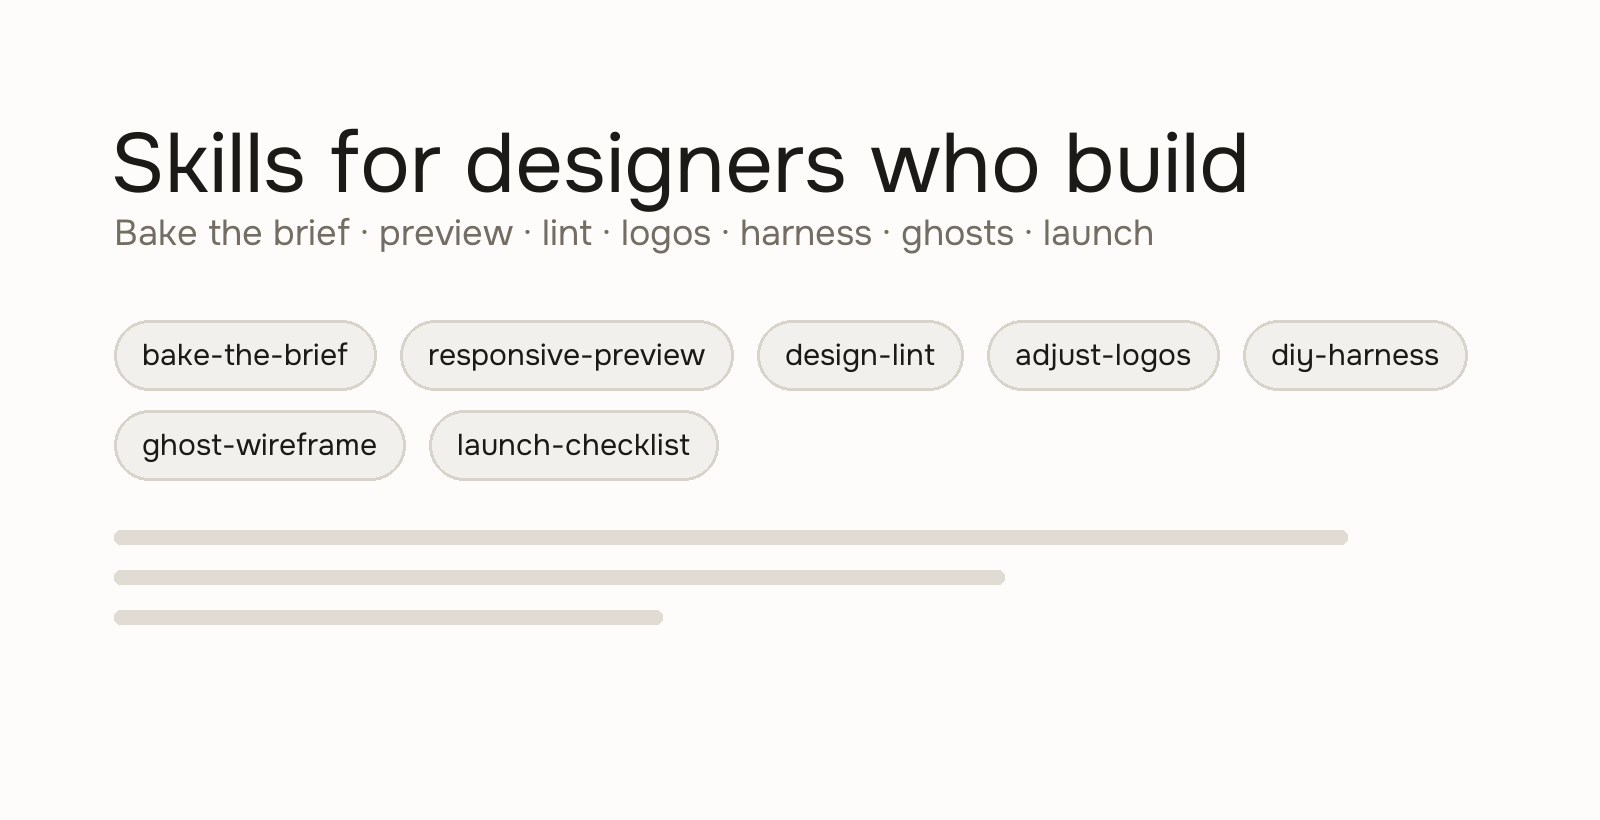
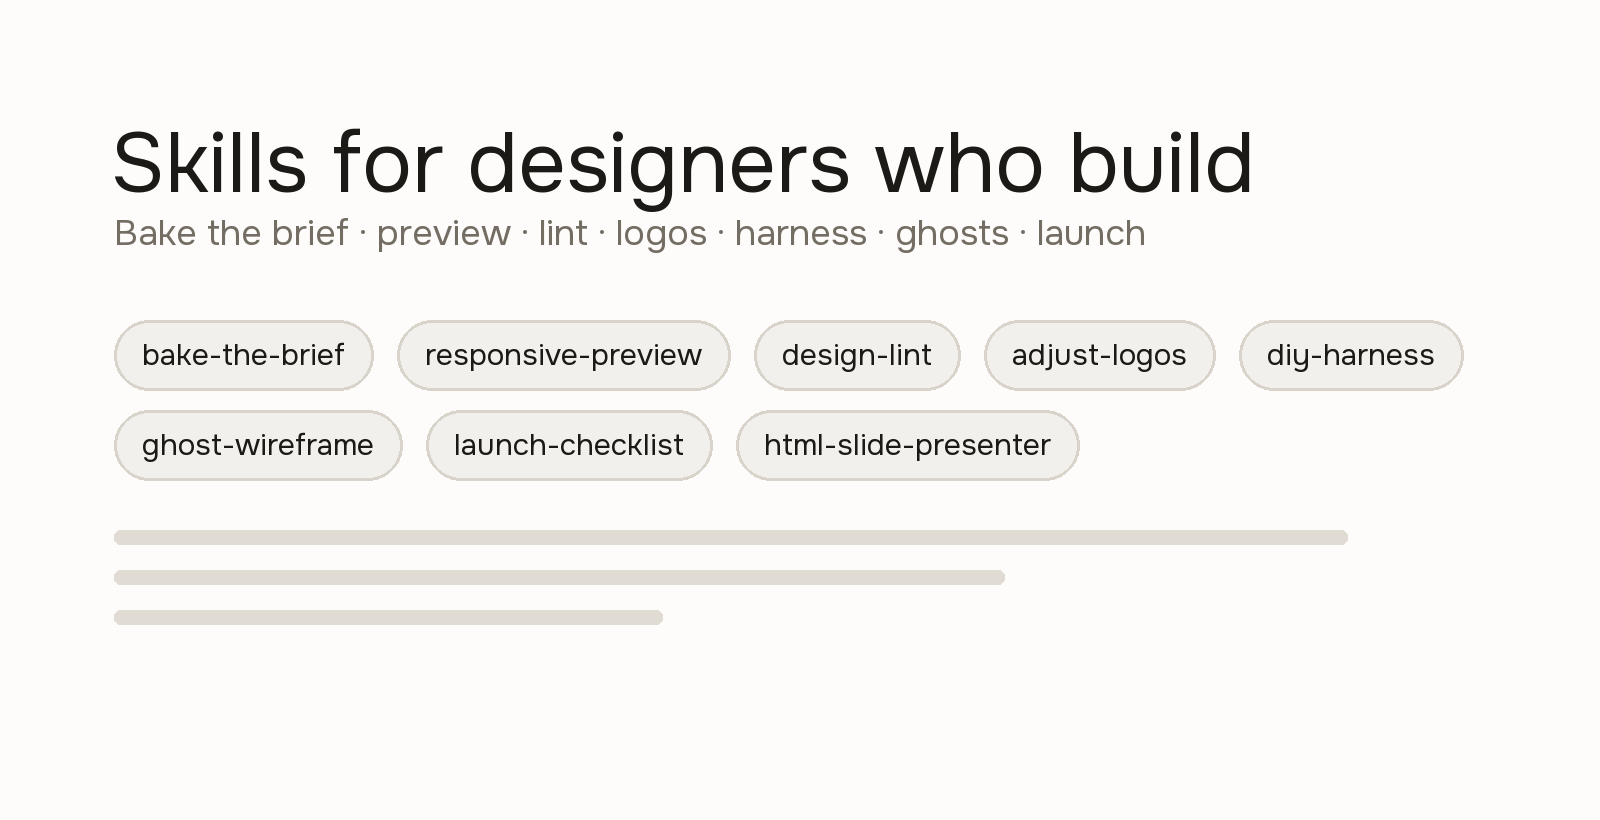
Add HTML Slide Presenter portable skill (#4)

diff --git a/skills/html-slide-presenter/example.html b/skills/html-slide-presenter/example.html
@@ -1,0 +1,69 @@
+<!doctype html>
+<html lang="en" data-active-slide="0">
+<head>
+<meta charset="utf-8">
+<meta name="viewport" content="width=device-width, initial-scale=1">
+<title>One useful idea — practice deck</title>
+<style>*{box-sizing:border-box}html,body{height:100%;margin:0}body{background:#17271e;color:#f7faf4;font-family:system-ui,-apple-system,BlinkMacSystemFont,"Segoe UI",sans-serif}main{height:100%;padding:clamp(24px,5vw,80px);padding-bottom:110px}.slide{height:100%;max-width:1200px;margin:auto;display:flex;flex-direction:column;justify-content:center;gap:24px}.slide[hidden],aside.notes{display:none!important}.slide small{color:#c2e5b5;font-size:clamp(16px,2vw,22px)}h1,h2,p{margin:0}h1,h2{font-size:clamp(32px,6vw,88px);line-height:1.06;max-width:16ch;letter-spacing:-.035em}p,li{font-size:clamp(18px,2.7vw,36px);line-height:1.4;max-width:38ch}ul{padding-left:1.2em;margin:0}li+li{margin-top:12px}.accent{color:#c9f59b}nav{position:fixed;bottom:0;left:0;right:0;min-height:80px;padding:16px 5vw;display:flex;align-items:center;gap:12px;background:#17271e;border-top:1px solid #53644e}button{font:inherit;font-size:16px;color:inherit;background:transparent;border:1px solid #809375;border-radius:6px;padding:12px 18px;cursor:pointer}button:disabled{opacity:.4;cursor:default}button:focus-visible{outline:3px solid #c9f59b;outline-offset:3px}output{margin-right:auto;color:#c2e5b5;font-variant-numeric:tabular-nums}@media(max-height:560px){main{padding:22px 5vw 88px}.slide{gap:12px}h1,h2{font-size:clamp(28px,5vw,56px)}p,li{font-size:clamp(16px,2vw,24px)}nav{min-height:68px;padding:10px 5vw}}</style>
+</head>
+<body>
+<main class="deck-stage">
+<section class="slide active" data-slide-index="0" aria-label="One useful idea, clearly presented">
+<small>A three-slide practice deck</small><h1>One useful idea,<br><span class="accent">clearly presented.</span></h1><p>A small rehearsal for your next talk.</p>
+<script type="application/json" class="slide-notes">
+{"title": "One useful idea, clearly presented", "script": "Welcome. This is a short practice deck. We will start with one audience question, show one useful example, and finish with a clear next step.", "notes": ["Pause and look at the room.", "Use the next button on your phone."]}
+</script>
+</section>
+<section class="slide" hidden data-slide-index="1" aria-label="Make the idea concrete">
+<small>Show the audience something they can use</small><h2>Make the idea<br><span class="accent">concrete.</span></h2><ul><li>Start with one question.</li><li>Show one example.</li><li>Leave room for a pause.</li></ul>
+<script type="application/json" class="slide-notes">
+{"title": "Make the idea concrete", "script": "A clear talk does not need every detail. Pick one question the audience cares about, show a concrete example, and give them a moment to connect it to their own work.", "notes": ["This is guidance, not a research claim.", "Ask: what question does your talk answer?"]}
+</script>
+</section>
+<section class="slide" hidden data-slide-index="2" aria-label="Rehearse the next step">
+<small>Before your real presentation</small><h2>Rehearse the<br><span class="accent">next step.</span></h2><p>Check the display, read your notes, and keep a local copy ready.</p>
+<script type="application/json" class="slide-notes">
+{"title": "Rehearse the next step", "script": "Before your talk, test the screen and your phone together. Check that the audience sees only the slide. Keep the original HTML file on the laptop so you can use keyboard controls if the connection fails.", "notes": ["The phone remote needs internet.", "End with the action you want the audience to take."]}
+</script>
+</section>
+</main>
+<nav aria-label="Presentation controls"><output id="progress" aria-live="polite">1 / 3</output><button id="previous" type="button" disabled>Previous</button><button id="next" type="button">Next</button></nav>
+<script>
+(() => {
+  const slides = Array.from(document.querySelectorAll('.slide'));
+  const previous = document.getElementById('previous');
+  const next = document.getElementById('next');
+  const progress = document.getElementById('progress');
+  window.currentSlide = 0;
+  window.goToSlide = function(index) {
+    index = Math.max(0, Math.min(slides.length - 1, Math.trunc(Number(index) || 0)));
+    window.currentSlide = index;
+    document.documentElement.dataset.activeSlide = String(index);
+    slides.forEach((slide, i) => {
+      slide.hidden = i !== index;
+      slide.classList.toggle('active', i === index);
+      slide.setAttribute('aria-hidden', String(i !== index));
+    });
+    previous.disabled = index === 0;
+    next.disabled = index === slides.length - 1;
+    progress.textContent = `${index + 1} / ${slides.length}`;
+    window.dispatchEvent(new CustomEvent('slidechange', { detail: { index } }));
+  };
+  previous.addEventListener('click', () => window.goToSlide(window.currentSlide - 1));
+  next.addEventListener('click', () => window.goToSlide(window.currentSlide + 1));
+  document.addEventListener('keydown', event => {
+    if (event.altKey || event.ctrlKey || event.metaKey || /INPUT|TEXTAREA|SELECT/.test(event.target.tagName) || event.target.isContentEditable) return;
+    let index;
+    if (['ArrowRight', 'ArrowDown', 'PageDown'].includes(event.key)) index = window.currentSlide + 1;
+    else if (['ArrowLeft', 'ArrowUp', 'PageUp'].includes(event.key)) index = window.currentSlide - 1;
+    else if (event.key === 'Home') index = 0;
+    else if (event.key === 'End') index = slides.length - 1;
+    else return;
+    event.preventDefault();
+    window.goToSlide(index);
+  });
+  window.goToSlide(0);
+})();
+</script>
+</body>
+</html>

diff --git a/skills/html-slide-presenter/starter.html b/skills/html-slide-presenter/starter.html
@@ -1,0 +1,63 @@
+<!doctype html>
+<html lang="en" data-active-slide="0">
+<head>
+<meta charset="utf-8">
+<meta name="viewport" content="width=device-width, initial-scale=1">
+<title>HTML presentation starter</title>
+<style>*{box-sizing:border-box}html,body{height:100%;margin:0}body{background:#17271e;color:#f7faf4;font-family:system-ui,-apple-system,BlinkMacSystemFont,"Segoe UI",sans-serif}main{height:100%;padding:clamp(24px,5vw,80px);padding-bottom:110px}.slide{height:100%;max-width:1200px;margin:auto;display:flex;flex-direction:column;justify-content:center;gap:24px}.slide[hidden],aside.notes{display:none!important}.slide small{color:#c2e5b5;font-size:clamp(16px,2vw,22px)}h1,h2,p{margin:0}h1,h2{font-size:clamp(32px,6vw,88px);line-height:1.06;max-width:16ch;letter-spacing:-.035em}p,li{font-size:clamp(18px,2.7vw,36px);line-height:1.4;max-width:38ch}ul{padding-left:1.2em;margin:0}li+li{margin-top:12px}.accent{color:#c9f59b}nav{position:fixed;bottom:0;left:0;right:0;min-height:80px;padding:16px 5vw;display:flex;align-items:center;gap:12px;background:#17271e;border-top:1px solid #53644e}button{font:inherit;font-size:16px;color:inherit;background:transparent;border:1px solid #809375;border-radius:6px;padding:12px 18px;cursor:pointer}button:disabled{opacity:.4;cursor:default}button:focus-visible{outline:3px solid #c9f59b;outline-offset:3px}output{margin-right:auto;color:#c2e5b5;font-variant-numeric:tabular-nums}@media(max-height:560px){main{padding:22px 5vw 88px}.slide{gap:12px}h1,h2{font-size:clamp(28px,5vw,56px)}p,li{font-size:clamp(16px,2vw,24px)}nav{min-height:68px;padding:10px 5vw}}</style>
+</head>
+<body>
+<main class="deck-stage">
+<section class="slide active" data-slide-index="0" aria-label="Your presentation title">
+<small>Your audience · Your talk duration</small><h1>Your presentation <span class="accent">title.</span></h1><p>Replace this sentence with the idea your audience should remember.</p>
+<script type="application/json" class="slide-notes">
+{"title": "Your presentation title", "script": "Replace this with your opening, grounded in your own material.", "notes": ["Add a cue for yourself."]}
+</script>
+</section>
+<section class="slide" hidden data-slide-index="1" aria-label="Your supporting example">
+<small>Make your point concrete</small><h2>Your supporting <span class="accent">example.</span></h2><p>Replace this with one real example from your material.</p>
+<script type="application/json" class="slide-notes">
+{"title": "Your supporting example", "script": "Explain the example without inventing facts or results.", "notes": ["Pause before moving on."]}
+</script>
+</section>
+</main>
+<nav aria-label="Presentation controls"><output id="progress" aria-live="polite">1 / 2</output><button id="previous" type="button" disabled>Previous</button><button id="next" type="button">Next</button></nav>
+<script>
+(() => {
+  const slides = Array.from(document.querySelectorAll('.slide'));
+  const previous = document.getElementById('previous');
+  const next = document.getElementById('next');
+  const progress = document.getElementById('progress');
+  window.currentSlide = 0;
+  window.goToSlide = function(index) {
+    index = Math.max(0, Math.min(slides.length - 1, Math.trunc(Number(index) || 0)));
+    window.currentSlide = index;
+    document.documentElement.dataset.activeSlide = String(index);
+    slides.forEach((slide, i) => {
+      slide.hidden = i !== index;
+      slide.classList.toggle('active', i === index);
+      slide.setAttribute('aria-hidden', String(i !== index));
+    });
+    previous.disabled = index === 0;
+    next.disabled = index === slides.length - 1;
+    progress.textContent = `${index + 1} / ${slides.length}`;
+    window.dispatchEvent(new CustomEvent('slidechange', { detail: { index } }));
+  };
+  previous.addEventListener('click', () => window.goToSlide(window.currentSlide - 1));
+  next.addEventListener('click', () => window.goToSlide(window.currentSlide + 1));
+  document.addEventListener('keydown', event => {
+    if (event.altKey || event.ctrlKey || event.metaKey || /INPUT|TEXTAREA|SELECT/.test(event.target.tagName) || event.target.isContentEditable) return;
+    let index;
+    if (['ArrowRight', 'ArrowDown', 'PageDown'].includes(event.key)) index = window.currentSlide + 1;
+    else if (['ArrowLeft', 'ArrowUp', 'PageUp'].includes(event.key)) index = window.currentSlide - 1;
+    else if (event.key === 'Home') index = 0;
+    else if (event.key === 'End') index = slides.length - 1;
+    else return;
+    event.preventDefault();
+    window.goToSlide(index);
+  });
+  window.goToSlide(0);
+})();
+</script>
+</body>
+</html>

diff --git a/scripts/generate-visuals.py b/scripts/generate-visuals.py
@@ -312,6 +312,24 @@ def save_launch_checklist(path: Path, fonts) -> None:
     img.save(path, optimize=True)
 
 
+# ---------------------------------------------------------------- html-slide-presenter
+
+def save_html_slide_presenter(path: Path, fonts) -> None:
+    img, d = canvas()
+    d.text((800, 75), "HTML slides · your file, your tools", fill=TEXT, font=fonts["title"], anchor="mm")
+    d.text((800, 132), "Create a self-contained deck with embedded speaking notes", fill=MUTED, font=fonts["body"], anchor="mm")
+    d.rounded_rectangle([100, 240, 1030, 700], radius=16, fill="white", outline=BORDER, width=3)
+    d.text((150, 290), "One clear idea per slide", fill=TEXT, font=fonts["h2"])
+    ghost_lines(d, 150, 380, 740, 4, gap=46, h=18, widths=[0.9, 0.72, 0.84, 0.5])
+    chip(d, 565, 650, "deck.html", MUTED, PANEL, fonts["chip"])
+    phone_frame(d, 1140, 240, 320, 460, "embedded notes", fonts)
+    d.text((1170, 290), "Speaking text", fill=TEXT, font=fonts["small"])
+    ghost_lines(d, 1170, 345, 255, 6, gap=34, h=12)
+    chip(d, 1300, 650, "1 / 3", MUTED, PANEL, fonts["chip"])
+    d.text((800, 815), "Portable skill · keyboard navigation · local backup", fill=MUTED, font=fonts["body"], anchor="mm")
+    img.save(path, optimize=True)
+
+
 # ---------------------------------------------------------------- hero
 
 def save_hero(path: Path, fonts) -> None:
@@ -326,6 +344,7 @@ def save_hero(path: Path, fonts) -> None:
         "diy-harness",
         "ghost-wireframe",
         "launch-checklist",
+        "html-slide-presenter",
     ]
     x, y = 114, 320
     row_h = 90
@@ -352,6 +371,7 @@ def main() -> None:
     save_responsive_preview(SKILLS / "responsive-preview/visual.png", fonts)
     save_ghost_wireframe(SKILLS / "ghost-wireframe/visual.png", fonts)
     save_launch_checklist(SKILLS / "website-launch-checklist-prompt/visual.png", fonts)
+    save_html_slide_presenter(SKILLS / "html-slide-presenter/visual.png", fonts)
     save_hero(ASSETS / "hero.png", fonts)
     print("Wrote skill visuals.")
 

diff --git a/skills/html-slide-presenter/references/format.md b/skills/html-slide-presenter/references/format.md
@@ -1,0 +1,49 @@
+# Self-contained deck format
+
+Release status (2026-09-30): the phone-notes behavior below describes the prepared website update, which has not yet been published. The file format, local deck, and validator are usable now; keep separate backup notes until the deployed presenter supports importing them.
+
+The portable pack uses the convention below; the presenter can also attempt to control other HTML decks. Arbitrary custom navigation is not guaranteed compatible.
+
+## File
+
+One complete UTF-8 HTML document, maximum 2,097,152 bytes (the presenter's default 2 MB cap). Keep CSS and JavaScript inline. Use system fonts and inline SVG/data assets, avoiding linked stylesheets, remote scripts, CSS imports, fetches, and external images/media. Ordinary reference hyperlinks are allowed but should not be required during the talk. Do not add upload logic, tracking, forms, or credentials.
+
+## Slides and navigation
+
+Use `.slide` elements in DOM order, including slides currently hidden. Give each a stable `data-slide-index` starting at zero. Show one slide using `.active` and `hidden = false`; hide all others. Do not remove inactive slides from the DOM.
+
+Provide `window.goToSlide(index)` and update `window.currentSlide` and `document.documentElement.dataset.activeSlide`. Dispatch `new CustomEvent('slidechange', { detail: { index } })` after navigation. The bundled starter demonstrates clamping, button disabled states, progress, and keyboard navigation. Keyboard handlers must ignore text inputs, editable regions, and modified shortcuts. `.slide[hidden]` must stay hidden regardless of display styles.
+
+The presenter bridge observes the deck's confirmed active slide. The phone must not infer the slide by counting previous/next clicks. A deck without an identifiable active slide can still display, but notes synchronization may be unavailable.
+
+## Notes
+
+Place notes directly inside their slide. Prefer valid JSON:
+
+```html
+<script type="application/json" class="slide-notes">
+{"title":"A small first step","script":"Introduce the practical problem.","notes":["Pause for a response","Move to the example"]}
+</script>
+```
+
+`title` and `script` are strings; `notes` is an array of strings. Use plain text in each field. Escape literal `</script` as `<\/script` when serializing text so it cannot close the JSON element. Do not put HTML, event handlers, URLs with secrets, or executable instructions in notes. The phone renders imported text, not HTML.
+
+Plain-text fallback:
+
+```html
+<aside class="notes" hidden>Introduce the practical problem. Pause before the example.</aside>
+```
+
+Always include `aside.notes { display: none !important; }`. When both forms exist, valid JSON takes precedence. Invalid JSON can fall back to a plain-text aside; otherwise the phone shows an unreadable-notes state. A slide with no note block shows a separate missing-notes state. Avoid duplicate note blocks per slide.
+
+Keep titles below 200 characters, speaking text below 6,000 characters, and up to 20 supporting notes of 500 characters each so the phone remains readable. The receiving service applies its own limits; these authoring budgets are deliberately modest and are not an API schema.
+
+## Delivery and verification
+
+Run the bundled validator against the final output. It is a dependency-free static inspection, not a full HTML parser, security audit, or browser test. Check dynamically built asset paths and notes manually; a regex-based scan cannot prove their absence. Then open the file with networking disabled and navigate every slide, checking overflow and readability. Upload and pair the phone only when authorized; do not call local verification a hosted presentation test.
+
+The local HTML backup works without the hosted service when all dependencies are embedded. Hosted remote synchronization and phone notes need internet. An uploaded file and its embedded notes are temporarily stored until expiry; hidden notes are not encryption or confidential storage.
+
+## Provenance
+
+This starter, example, and validator are original Tiny Design Shop resources. The notes convention is interoperable with JSON `slide-notes` decks such as the publicly documented [bluedusk/html-slides](https://github.com/bluedusk/html-slides) format; no upstream code is bundled. Any future copied code must retain its applicable license and attribution.

diff --git a/skills/html-slide-presenter/SKILL.md b/skills/html-slide-presenter/SKILL.md
@@ -1,0 +1,32 @@
+---
+name: html-slide-presenter
+description: Create or adapt a self-contained HTML slide deck with keyboard navigation and embedded speaker notes, then hand it off to Tiny Design Shop for browser presentation and phone control.
+---
+
+# HTML Slide Presenter
+
+![Skill visual](visual.png)
+
+Create a downloadable HTML presentation from the user's content, or adapt an existing HTML deck for the free [HTML Slide Presenter](https://tinydesignshop.com/tools/html-slide-presenter). Creating the file does not require a particular paid model, API, or presentation service; the user's chosen AI client has its own access and usage limits.
+
+## Make the deck
+
+1. Use the supplied audience, purpose, duration, content, and style. Ask only for missing information that materially changes the presentation. Label assumptions and placeholders; do not invent quotations, results, credentials, or evidence.
+2. For a new deck, adapt `starter.html` or study `example.html`. For an existing deck, preserve its content, styling, navigation, and notes unless the user requests changes. Explain incompatibilities before replacing an established deck structure.
+3. Read [references/format.md](references/format.md) for the slide and notes contract. Deliver one complete HTML document with inline CSS/JavaScript, embedded assets, and no required external files, fonts, libraries, or network requests. Keep it at or below 2,097,152 bytes.
+4. Use a clear active slide, keyboard previous/next/Home navigation, and notes stored inside their corresponding slide. JSON notes support `title`, `script`, and a string-array `notes`; plain-text `aside.notes` is also supported. Never put speaking notes on the audience screen.
+5. Keep slide text concise, high-contrast, and readable at presentation size. Use the user's requested visual style rather than imposing Tiny Design Shop branding. Adapt layout to available space without reducing text to unreadable sizes.
+
+## Verify and hand off
+
+- Release status (2026-09-30): this pack is available before the website's phone-notes update. Create embedded notes now, but do not promise the deployed presenter will display them until that update is published. Keep separate backup notes in the meantime.
+- Run `node scripts/validate-deck.mjs /path/to/deck.html` when a Node runtime is available. It checks structure, size, dependencies, and notes; it does not execute the deck or prove compatibility.
+- When browser access is available, open the file, disable networking, and test every slide using both keyboard and visible controls. Check layout at the intended presentation size and a smaller laptop viewport. Test the uploaded presentation and phone notes only when the user has authorized that upload.
+- Distinguish completed static checks, completed browser checks, and checks unavailable in the current environment. Do not say the deck or AI-client integration was tested when it was not.
+- Return the downloadable file and a short description of how to open it locally. Link to [HTML Slide Presenter](https://tinydesignshop.com/tools/html-slide-presenter): the user selects the file, completes bot verification, chooses expiry, opens the presenter, and connects their phone.
+- Do not upload automatically, bypass bot verification, claim a live session exists, or imply permanent hosting. The file is uploaded temporarily when the user uses the presenter. Phone controls/notes require internet; the local file is a keyboard-controlled backup.
+- Notes are embedded in the file, not confidential storage. Anyone with the file can inspect them. Do not include private notes unless the user intends to share the file with them included.
+
+## Client usage
+
+This is a portable instruction pack. A skill-capable coding agent can read this folder using its documented skill mechanism; a regular chat can use `compact-prompt.txt`. Do not claim that ordinary ChatGPT chats natively install skills or that a particular paid client feature is required. If the client cannot create attachments, provide complete HTML source and instructions to save it as a UTF-8 `.html` file; never provide a truncated fragment as a finished deck.

diff --git a/README.md b/README.md
@@ -36,6 +36,7 @@ Your taste, on every run.
 <!-- TDS-SYNC:START -->
 - **[ghost-wireframe](./skills/ghost-wireframe/SKILL.md)** — Skeleton UI / ghost wireframes with `--ghost-*` colour roles for landing chrome and loading states. Live tool at [Tiny Design Shop](https://tinydesignshop.com/tools/ghost-wireframe-generator).
 - **[website-launch-checklist-prompt](./skills/website-launch-checklist-prompt/SKILL.md)** — Pre-launch audit for SEO, OpenGraph, agent readiness, AEO, and compliance. Live tool at [Tiny Design Shop](https://tinydesignshop.com/tools/launch-checklist-prompt).
+- **[html-slide-presenter](./skills/html-slide-presenter/SKILL.md)** — Create or adapt self-contained HTML slides with embedded speaker notes, then present with a phone remote at [Tiny Design Shop](https://tinydesignshop.com/tools/html-slide-presenter).
 <!-- TDS-SYNC:END -->
 
 ---
